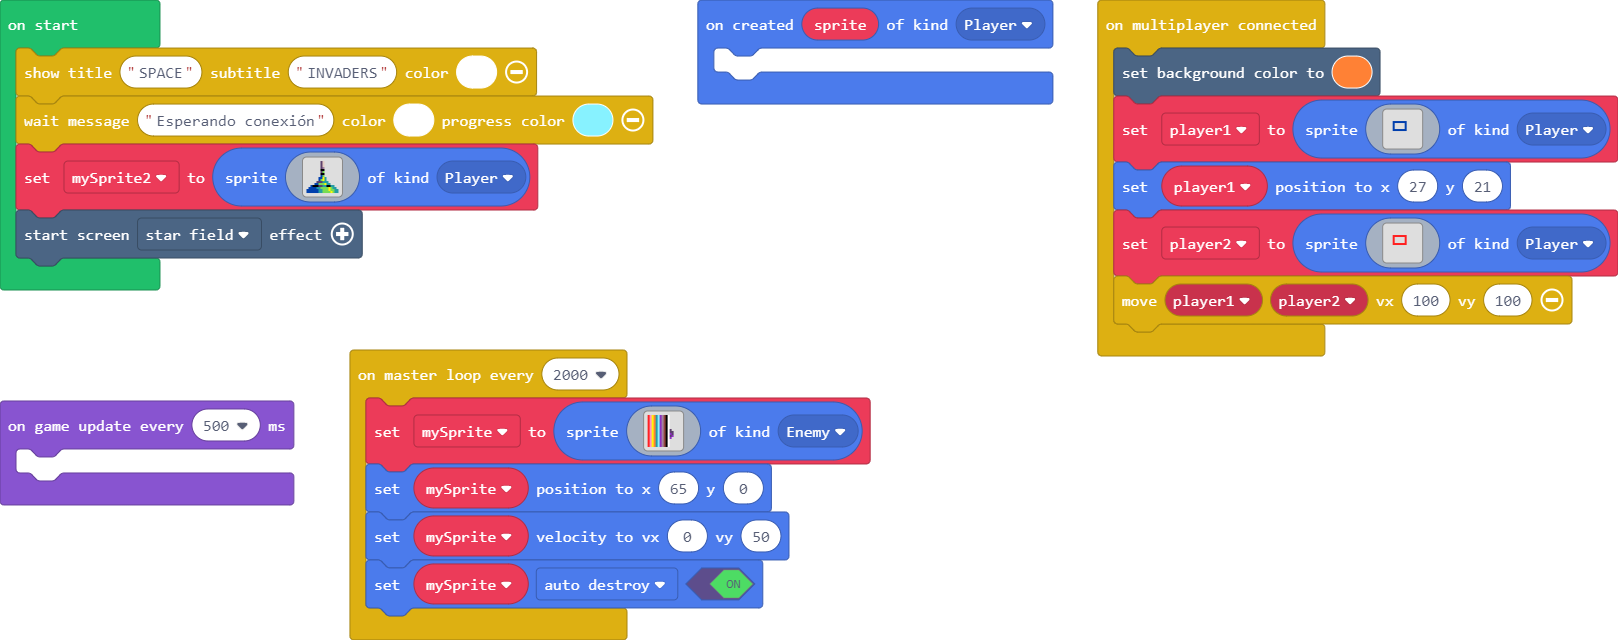
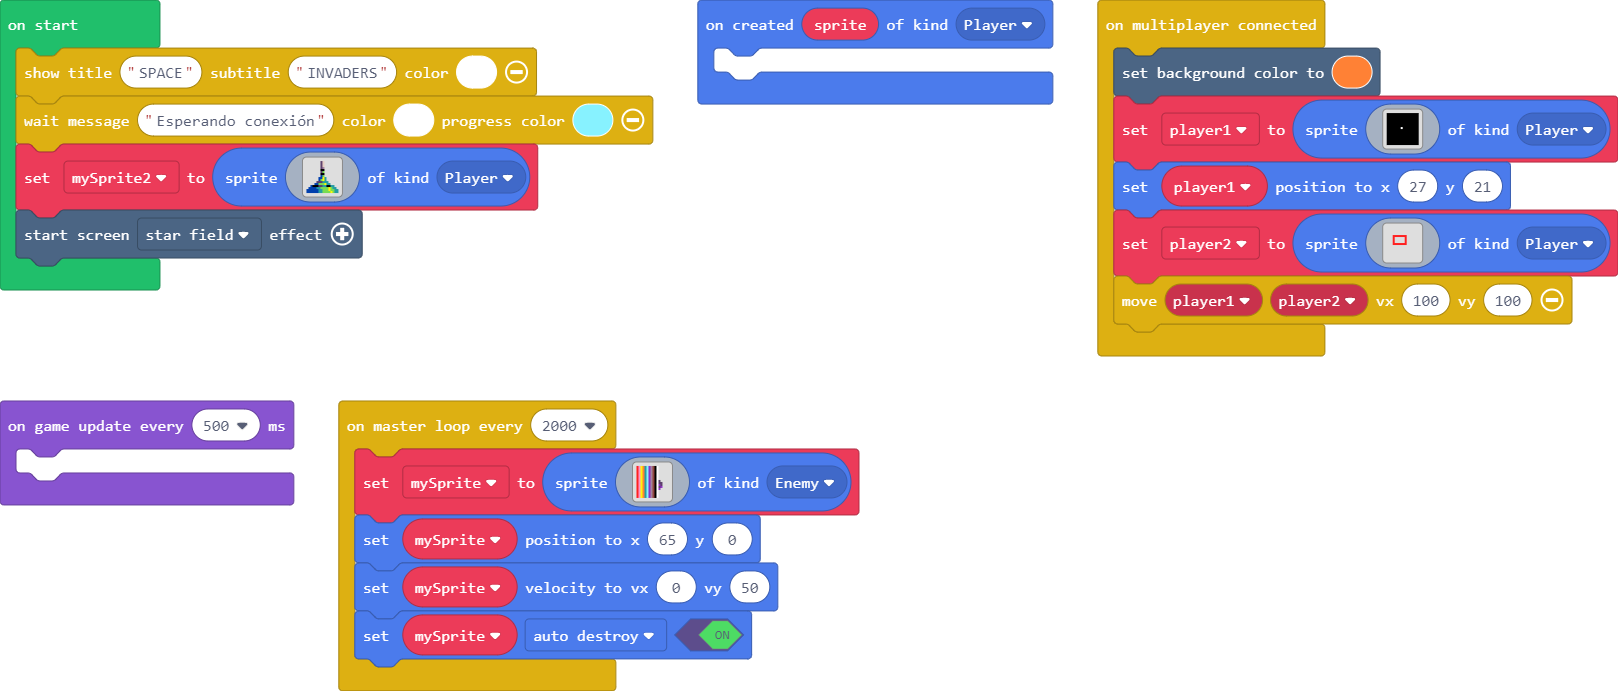
Update main.blocks, main.ts, multiplayer.ts

diff --git a/multiplayer.ts b/multiplayer.ts
@@ -13,6 +13,33 @@ namespace multiplayer {
         HudUpdate = 11
     }
 
+
+     
+
+function test(){
+    let b: Buffer = control.createBuffer(0);
+    let im: Image = pl1.image;
+
+    if (pl1 == undefined) return;
+
+    let imcrc=0;
+    for (let f = 0; f < im.height; f++) {
+        for (let c = 0; c < im.width; c++) {
+            let px = im.getPixel(f, c);
+            imcrc += px*c + (c*f);
+        }
+    }
+
+
+
+    //pl1.image.setRows(2, b);
+    console.log("buffer");
+    console.log( imcrc );
+    
+  //  console.log(jacdac.jd_crc(b));
+}
+
+
     const socket =  multiplayer.Socket.getInstance();
 
     enum ProgramState {
@@ -44,8 +71,16 @@ namespace multiplayer {
     let flip = true;
     let readyCount = 3000;
 
-    //% blockId=transform_change_rotation
-    //% block="start mutiplayer game"
+    
+    //% blockId=myFunction
+    //% block="as $myParam"
+    //% myParam.shadow="lists_create_with"
+    //% myParam.defl="inner_shadow_block"
+    function myFunction(myParam: number[]): void { }
+
+
+    //% blockId=multiPlayerStart
+    //% block="start mutiplayer game5"
     //% sprite.shadow="variables_get" angleChange.defl=0
     export function multiPlayerStart():void {
         
@@ -128,7 +163,7 @@ namespace multiplayer {
        if( !useHWMultiplayer ){
            controller.player2.moveSprite(pl2, _vx, _vy)  ;     
        }
-
+        test();
         
     }
  
@@ -154,8 +189,8 @@ namespace multiplayer {
            
            
            //pl1.image.setRows(2, b);
-           console.log("buffer");
-           console.log(    (b.toHex())  );
+          // console.log("buffer");
+          // console.log(    (b.toHex())  );
     })
 
 

diff --git a/main.ts b/main.ts
@@ -27,22 +27,22 @@ sprites.onCreated(SpriteKind.Player, function (sprite) {
 multiplayer.onConnected(function () {
     scene.setBackgroundColor(4)
     player1 = sprites.create(img`
-. . . . . . . . . . . . . . . . 
-. . . . . . . . . . . . . . . . 
-. . . . . . . . . . . . . . . . 
-. . . . . . . . . . . . . . . . 
-. . . 8 8 8 8 8 8 8 . . . . . . 
-. . . 8 . . . . . 8 . . . . . . 
-. . . 8 . . . . . 8 . . . . . . 
-. . . 8 . . . . . 8 . . . . . . 
-. . . 8 8 8 8 8 8 8 . . . . . . 
-. . . . . . . . . . . . . . . . 
-. . . . . . . . . . . . . . . . 
-. . . . . . . . . . . . . . . . 
-. . . . . . . . . . . . . . . . 
-. . . . . . . . . . . . . . . . 
-. . . . . . . . . . . . . . . . 
-. . . . . . . . . . . . . . . . 
+f f f f f f f f f f f f f f f f 
+f f f f f f f f f f f f f f f f 
+f f f f f f f f f f f f f f f f 
+f f f f f f f f f f f f f f f f 
+f f f f f f f f f f f f f f f f 
+f f f f f f f f f f f f f f f f 
+f f f f f f f f f f f f f f f f 
+f f f f f f f 1 f f f f f f f f 
+f f f f f f f f f f f f f f f f 
+f f f f f f f f f f f f f f f f 
+f f f f f f f f f f f f f f f f 
+f f f f f f f f f f f f f f f f 
+f f f f f f f f f f f f f f f f 
+f f f f f f f f f f f f f f f f 
+f f f f f f f f f f f f f f f f 
+f f f f f f f f f f f f f f f f 
 `, SpriteKind.Player)
     player1.setPosition(27, 21)
     player2 = sprites.create(img`
